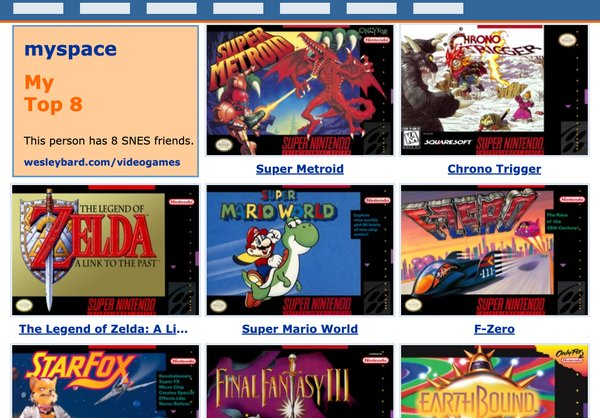
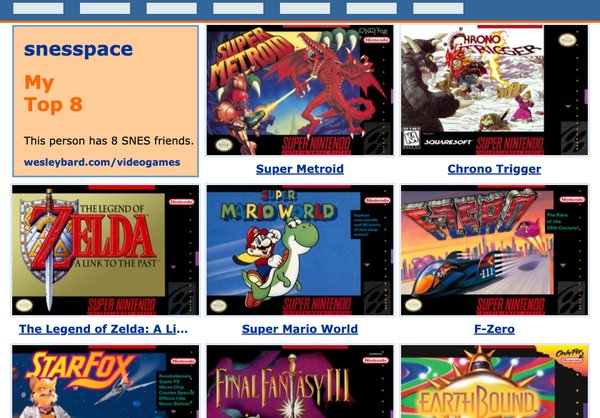
fix(snes): Top 8 final review fixes, snesspace wordmark

Changed region(s): [[0.03, 0.0933, 0.24, 0.1555]]

diff --git a/__tests__/snes-top8-page.test.tsx b/__tests__/snes-top8-page.test.tsx
@@ -63,6 +63,10 @@ const realCreate = URL.createObjectURL, realRevoke = URL.revokeObjectURL;
 const realClipboard = Object.getOwnPropertyDescriptor(navigator, 'clipboard');
 const realShare = Object.getOwnPropertyDescriptor(navigator, 'share');
 
+// jsdom never loads images; treat covers as already loaded unless a test swaps in its own Image.
+Object.defineProperty(HTMLImageElement.prototype, 'complete', { get: () => true, configurable: true });
+Object.defineProperty(HTMLImageElement.prototype, 'naturalWidth', { get: () => 300, configurable: true });
+
 beforeEach(() => {
   calls.length = 0;
   drawSpy.mockClear().mockImplementation(actualRender.drawTop8);
@@ -430,4 +434,84 @@ it('the page is noindex, titled, and renders the maker with the credit', async (
   expect(screen.getByRole('heading', { level: 1, name: 'My SNES Top 8' })).toBeInTheDocument();
   expect(screen.getByRole('link', { name: /Super Nintendo in America/ })).toHaveAttribute('href', '/videogames/snes-history');
   expect(screen.getByText(/Data: IGDB/)).toBeInTheDocument();
+});
+
+describe('final fixes', () => {
+  it('shows the deny hint only after something was denied, else a neutral message', async () => {
+    window.history.replaceState(null, '', '?g=a');
+    const { unmount } = render(<Top8 games={[g('a', 'Alpha Quest')]} />);
+    await act(async () => {});
+    expect(screen.queryByText('Deny fewer games and more will show up.')).not.toBeInTheDocument();
+    expect(screen.getByText('No more suggestions right now.')).toBeInTheDocument();
+    unmount();
+    render(<Top8 games={[g('a', 'Alpha Quest'), g('b', 'Bravo Racer', { score: 9 })]} />);
+    await act(async () => {});
+    expect(screen.queryByText('No more suggestions right now.')).not.toBeInTheDocument();
+    fireEvent.click(screen.getByRole('button', { name: 'Deny Bravo Racer' }));
+    expect(screen.getByText('Deny fewer games and more will show up.')).toBeInTheDocument();
+  });
+
+  it('an in-flight encode that resolves after an edit does not repopulate the share cache', async () => {
+    const share = jest.fn(() => Promise.resolve());
+    Object.defineProperty(navigator, 'canShare', { value: () => true, configurable: true });
+    Object.defineProperty(navigator, 'share', { value: share, configurable: true });
+    const pending: BlobCallback[] = [];
+    HTMLCanvasElement.prototype.toBlob = jest.fn(function (cb: BlobCallback) { pending.push(cb); });
+    window.history.replaceState(null, '', '?g=a,b');
+    await mount();
+    await frames();
+    await act(async () => { await new Promise((r) => setTimeout(r, 350)); });
+    expect(pending.length).toBeGreaterThan(0); // an encode is in flight
+    fireEvent.click(screen.getAllByRole('button', { name: /^Remove / })[0]); // edit: cache cleared
+    await act(async () => { pending.forEach((cb) => cb(new Blob(['old'], { type: 'image/png' }))); });
+    fireEvent.click(screen.getByRole('button', { name: 'Share' }));
+    expect(share).not.toHaveBeenCalled(); // the stale file was not written back
+  });
+
+  it('Save waits (up to a cap) for slot covers that load late', async () => {
+    const realImage = window.Image;
+    const made: (EventTarget & { complete: boolean; naturalWidth: number; onload: (() => void) | null; onerror: (() => void) | null })[] = [];
+    class LateImage extends EventTarget {
+      complete = false; naturalWidth = 0; onload: (() => void) | null = null; onerror: (() => void) | null = null; src = '';
+      constructor() { super(); made.push(this); }
+    }
+    (window as unknown as { Image: unknown }).Image = LateImage;
+    try {
+      Object.assign(URL, { createObjectURL: jest.fn(() => 'blob:x'), revokeObjectURL: jest.fn() });
+      jest.spyOn(HTMLAnchorElement.prototype, 'click').mockImplementation(() => {});
+      window.history.replaceState(null, '', '?g=a');
+      await mount();
+      await frames();
+      const toBlob = HTMLCanvasElement.prototype.toBlob as jest.Mock;
+      await act(async () => { fireEvent.click(screen.getByRole('button', { name: 'Save picture' })); });
+      expect(toBlob).not.toHaveBeenCalled(); // still waiting on the cover
+      await act(async () => {
+        made.forEach((i) => { i.complete = true; i.naturalWidth = 300; i.dispatchEvent(new Event('load')); });
+      });
+      expect(toBlob).toHaveBeenCalled();
+    } finally {
+      (window as unknown as { Image: unknown }).Image = realImage;
+    }
+  });
+
+  it('Save gives up waiting on covers after about 3 seconds', async () => {
+    const realImage = window.Image;
+    class NeverImage extends EventTarget { complete = false; naturalWidth = 0; onload = null; onerror = null; src = ''; }
+    (window as unknown as { Image: unknown }).Image = NeverImage;
+    try {
+      Object.assign(URL, { createObjectURL: jest.fn(() => 'blob:x'), revokeObjectURL: jest.fn() });
+      jest.spyOn(HTMLAnchorElement.prototype, 'click').mockImplementation(() => {});
+      window.history.replaceState(null, '', '?g=a');
+      await mount();
+      await frames();
+      jest.useFakeTimers();
+      const toBlob = HTMLCanvasElement.prototype.toBlob as jest.Mock;
+      await act(async () => { fireEvent.click(screen.getByRole('button', { name: 'Save picture' })); });
+      expect(toBlob).not.toHaveBeenCalled();
+      await act(async () => { jest.advanceTimersByTime(3100); });
+      expect(toBlob).toHaveBeenCalled();
+    } finally {
+      (window as unknown as { Image: unknown }).Image = realImage;
+    }
+  });
 });

diff --git a/app/snes/components/Top8.tsx b/app/snes/components/Top8.tsx
@@ -25,6 +25,7 @@ const MAX_RESULTS = 12;
 const LINK_KEYS = ['g', 'skin', 'n'];
 const SHARE_DEBOUNCE = 300;
 const REVOKE_AFTER = 4000;
+const IMAGE_WAIT = 3000;
 const PICTURE_FAILED = 'Couldn’t make the picture — try Save again';
 const SHARE_FAILED = 'Couldn’t open the share sheet — try Save instead';
 const box = (slug: string) => `/snes/box/${slug}.jpg`;
@@ -301,6 +302,7 @@ export default function Top8({ games }: { games: Top8Game[] }) {
   const frame = useRef(0);
   const latest = useRef(state);
   const shareFile = useRef<File | null>(null);
+  const shareGen = useRef(0);
   const shareTimer = useRef<ReturnType<typeof setTimeout> | undefined>(undefined);
 
   const ensureFonts = useCallback((theme: ThemeId) => {
@@ -316,11 +318,13 @@ export default function Top8({ games }: { games: Top8Game[] }) {
   // Keeps a ready-made PNG for Share, so navigator.share runs straight from the click (browsers want a user gesture).
   const prepareShare = useCallback(() => {
     shareFile.current = null;
+    const gen = ++shareGen.current;
     clearTimeout(shareTimer.current);
     if (!canShareRef.current) return;
     shareTimer.current = setTimeout(async () => {
       const cv = canvasRef.current;
       const blob = cv ? await toBlobAsync(cv) : null;
+      if (gen !== shareGen.current) return; // an edit or newer draw happened while this encoded
       shareFile.current = blob ? new File([blob], FILE, { type: 'image/png' }) : null;
     }, SHARE_DEBOUNCE);
   }, []);
@@ -328,8 +332,20 @@ export default function Top8({ games }: { games: Top8Game[] }) {
   // Any edit makes the cached picture stale; it is re-prepared after the next completed draw.
   useEffect(() => {
     shareFile.current = null;
+    shareGen.current++;
     clearTimeout(shareTimer.current);
   }, [state]);
+
+  const imageFor = useCallback((slug: string): HTMLImageElement => {
+    let img = images.current.get(slug);
+    if (!img) {
+      img = new Image();
+      img.onload = img.onerror = () => scheduleRef.current();
+      img.src = box(slug);
+      images.current.set(slug, img);
+    }
+    return img;
+  }, []);
 
   /** Draws the latest state; skipped (returns false) while that theme's fonts are still loading. */
   const draw = useCallback((): boolean => {
@@ -338,21 +354,11 @@ export default function Top8({ games }: { games: Top8Game[] }) {
     const ctx = canvasRef.current?.getContext('2d');
     if (!ctx) return false;
     const imgs: Record<string, HTMLImageElement> = {};
-    for (const slug of s.slots) {
-      if (!slug) continue;
-      let img = images.current.get(slug);
-      if (!img) {
-        img = new Image();
-        img.onload = img.onerror = () => scheduleRef.current();
-        img.src = box(slug);
-        images.current.set(slug, img);
-      }
-      imgs[slug] = img;
-    }
+    for (const slug of s.slots) if (slug) imgs[slug] = imageFor(slug);
     drawTop8({ ctx, slots: s.slots, titles, name: s.name, images: imgs, fonts: fonts.current }, THEMES[s.theme]);
     prepareShare();
     return true;
-  }, [titles, prepareShare]);
+  }, [titles, prepareShare, imageFor]);
   const schedule = useCallback(() => {
     cancelAnimationFrame(frame.current);
     frame.current = requestAnimationFrame(() => { draw(); });
@@ -376,11 +382,30 @@ export default function Top8({ games }: { games: Top8Game[] }) {
     return () => cancelAnimationFrame(frame.current);
   }, [state, fontsFor, schedule]);
 
+  /** Waits (at most IMAGE_WAIT ms in all) for the covers in these slots to load, so a quick Save doesn't print placeholders. */
+  const coversReady = async (slots: (string | null)[]): Promise<void> => {
+    const waits: Promise<void>[] = [];
+    for (const slug of new Set(slots)) {
+      if (!slug) continue;
+      const img = imageFor(slug);
+      if (img.complete && img.naturalWidth > 0) continue;
+      waits.push(new Promise<void>((resolve) => {
+        img.addEventListener('load', () => resolve(), { once: true });
+        img.addEventListener('error', () => resolve(), { once: true });
+      }));
+    }
+    if (!waits.length) return;
+    let timer: ReturnType<typeof setTimeout> | undefined;
+    await Promise.race([Promise.all(waits), new Promise<void>((r) => { timer = setTimeout(r, IMAGE_WAIT); })]);
+    clearTimeout(timer);
+  };
+
   /** The current picture as a PNG: waits for the theme's fonts, draws, then encodes. */
   const picture = async (): Promise<Blob | null> => {
     const cv = canvasRef.current;
     if (!cv) return null;
     await ensureFonts(latest.current.theme);
+    await coversReady(latest.current.slots);
     if (!draw()) return null;
     return toBlobAsync(cv);
   };
@@ -533,7 +558,7 @@ export default function Top8({ games }: { games: Top8Game[] }) {
                   );
                 })}
               </ul>
-            ) : <p className="s-t8-note">Deny fewer games and more will show up.</p>}
+            ) : <p className="s-t8-note">{state.denied.length > 0 ? 'Deny fewer games and more will show up.' : 'No more suggestions right now.'}</p>}
           </div>
         </section>
       </div>

diff --git a/__tests__/snes-top8-lib.test.ts b/__tests__/snes-top8-lib.test.ts
@@ -8,11 +8,22 @@ const games = [
   G('megaman7', { genres: ['Platform'], series: 'Mega Man', score: 7.4 }),
   G('golf', { genres: ['Sport'], score: 9.0 }),
   G('puzzle', { genres: ['Puzzle'], score: 8.9 }),
-  ...['super-mario-world', 'the-legend-of-zelda-a-link-to-the-past', 'super-metroid', 'chrono-trigger', 'donkey-kong-country', 'super-mario-kart'].map((s) => G(s)),
+  ...['super-mario-world', 'the-legend-of-zelda-a-link-to-the-past', 'super-metroid', 'chrono-trigger', 'donkey-kong-country', 'super-mario-kart', 'final-fantasy-iii', 'street-fighter-ii-the-world-warrior'].map((s) => G(s)),
 ];
 const st = (slots: (string | null)[], extra: Partial<Top8State> = {}): Top8State => ({ ...EMPTY_STATE, slots: [...slots, ...Array(8 - slots.length).fill(null)], ...extra });
 
 describe('recommend', () => {
+  it('starts with the spec\'s eight slugs in order and shows five rows', () => {
+    expect(STARTERS).toEqual(['super-mario-world', 'the-legend-of-zelda-a-link-to-the-past', 'super-metroid', 'chrono-trigger', 'donkey-kong-country', 'super-mario-kart', 'final-fantasy-iii', 'street-fighter-ii-the-world-warrior']);
+    const r = recommend(st([]), games);
+    expect(r).toHaveLength(5);
+    expect(r[0].slug).toBe('super-mario-world');
+  });
+  it('adds +1 per shared genre', () => {
+    const gs = [G('p', { genres: ['A', 'B'], similar: ['x', 'y'] }), G('x', { genres: ['A', 'B'], score: 7 }), G('y', { genres: ['A'], score: 7 })];
+    const r = recommend(st(['p']), gs);
+    expect(r.map((e) => e.slug)).toEqual(['x', 'y']); // same score and similar weight; x shares two genres
+  });
   it('suggests the starters when nothing is picked, skipping denied ones', () => {
     const r = recommend(st([], { denied: ['super-mario-world'] }), games);
     expect(r[0]).toEqual({ slug: 'the-legend-of-zelda-a-link-to-the-past', reason: 'a classic to start with' });

diff --git a/__tests__/snes-top8-render.test.ts b/__tests__/snes-top8-render.test.ts
@@ -64,6 +64,13 @@ describe('text helpers', () => {
     expect(t.endsWith('…')).toBe(true);
     expect(t.length * 10).toBeLessThanOrEqual(100);
   });
+  it('fitText never ends on a lone surrogate', () => {
+    const { ctx } = mockCtx();
+    for (let w = 20; w < 200; w += 7) {
+      const t = fitText(ctx, '\u{1D4D0}'.repeat(30), w);
+      expect(t).toMatch(/^(?:\u{1D4D0})*…$/u);
+    }
+  });
 });
 
 describe('fitFont', () => {
@@ -184,12 +191,25 @@ describe('themes', () => {
 
   it('draws no trademarked game names to the canvas', () => {
     const dir = path.join(process.cwd(), 'app/snes/top8/themes');
-    const banned = /F-Zero|Final Fantasy|Star Fox|Nintendo/i;
+    const banned = /F-Zero|Final Fantasy|Star Fox|Nintendo|MySpace/i;
     for (const f of fs.readdirSync(dir)) {
       const src = fs.readFileSync(path.join(dir, f), 'utf8');
       for (const m of src.matchAll(/fillText\(([^;]*)\)/g)) {
         expect(m[1]).not.toMatch(banned);
       }
     }
+  });
+});
+
+describe('myspace friend count', () => {
+  const friendsLine = (slots: (string | null)[]) => {
+    const { d, calls } = make(slots, 'Wes');
+    drawTop8(d, THEMES.myspace);
+    return calls.filter((c) => c.name === 'fillText').map((c) => String(c.args[0])).find((t) => /SNES friend/.test(t));
+  };
+  it('says "friend" for one and "friends" otherwise', () => {
+    expect(friendsLine(['a', ...Array(7).fill(null)])).toContain('has 1 SNES friend.');
+    expect(friendsLine(['a', 'b', ...Array(6).fill(null)])).toContain('has 2 SNES friends.');
+    expect(friendsLine(Array(8).fill(null))).toContain('has 0 SNES friends.');
   });
 });

diff --git a/lib/snes/top8.ts b/lib/snes/top8.ts
@@ -19,12 +19,14 @@ export type Top8State = { slots: (string | null)[]; theme: ThemeId; name: string
 export const EMPTY_STATE: Top8State = { slots: Array(8).fill(null), theme: 'myspace', name: '', denied: [] };
 
 export const STARTERS: string[] = [
-  'the-legend-of-zelda-a-link-to-the-past',
   'super-mario-world',
+  'the-legend-of-zelda-a-link-to-the-past',
   'super-metroid',
   'chrono-trigger',
   'donkey-kong-country',
   'super-mario-kart',
+  'final-fantasy-iii',
+  'street-fighter-ii-the-world-warrior',
 ];
 
 /** EGM average to 1 decimal, else aggregate/10, else users/10, else null. */
@@ -131,7 +133,7 @@ export function recommend(state: Top8State, games: Top8Game[], n = 5): { slug: s
     const hits = genreHit(g);
     if (!hits.length) continue;
     if (!cand.has(g.slug) && !(underfilled && (g.score ?? 0) >= 8)) continue;
-    add(g.slug, 1, 1, `you like ${hits[0].toLowerCase()} games`);
+    add(g.slug, hits.length, 1, `you like ${hits[0].toLowerCase()} games`);
   }
 
   return [...cand.entries()]

diff --git a/app/snes/top8/themes/myspace.ts b/app/snes/top8/themes/myspace.ts
@@ -40,7 +40,7 @@ export const myspace: Theme = {
     const verd = 'Verdana, Arial, sans-serif';
     ctx.fillStyle = '#003399';
     ctx.font = `bold 34px ${verd}`;
-    ctx.fillText('myspace', x + 18, y + 50);
+    ctx.fillText('snesspace', x + 18, y + 50);
     ctx.fillStyle = '#ff6600';
     const [a, b] = titleLines(name);
     ctx.fillText(fitFont(ctx, a, w - 36, (px) => `bold ${px}px ${verd}`, 34, 16), x + 18, y + 120);
@@ -48,7 +48,7 @@ export const myspace: Theme = {
     ctx.fillText(b, x + 18, y + 160);
     ctx.fillStyle = '#000';
     ctx.font = `19px ${verd}`;
-    const friends = wrapLines(ctx, `${name || 'This person'} has ${count(d)} SNES friends.`, w - 36, 2);
+    const friends = wrapLines(ctx, `${name || 'This person'} has ${count(d)} SNES ${count(d) === 1 ? 'friend' : 'friends'}.`, w - 36, 2);
     friends.forEach((l, i) => ctx.fillText(l, x + 18, y + h - 78 + (2 - friends.length) * 24 + i * 24));
     ctx.fillStyle = '#003399';
     ctx.font = `bold 17px ${verd}`;

diff --git a/app/snes/top8/render.ts b/app/snes/top8/render.ts
@@ -36,9 +36,9 @@ export type Theme = {
 
 export function fitText(ctx: CanvasRenderingContext2D, text: string, maxW: number): string {
   if (ctx.measureText(text).width <= maxW) return text;
-  let t = text;
-  while (t.length > 1 && ctx.measureText(t + '…').width > maxW) t = t.slice(0, -1);
-  return t + '…';
+  const chars = Array.from(text);
+  while (chars.length > 1 && ctx.measureText(chars.join('') + '…').width > maxW) chars.pop();
+  return chars.join('') + '…';
 }
 
 /** Sets ctx.font to the largest size in [minPx, maxPx] at which the text fits maxW and returns it; only below minPx does it fall back to an ellipsis. */

diff --git a/scripts/og/build-og.py b/scripts/og/build-og.py
@@ -518,7 +518,7 @@ def top8_picture():
     x, y = pos(0)
     out = chrome + (
         f'<div class="t8title" style="left:{x}px;top:{y}px;width:{cw}px;height:{cell}px">'
-        f'<b class="mys">myspace</b><b class="ttl" style="top:78px">My</b><b class="ttl" style="top:118px">Top 8</b>'
+        f'<b class="mys">snesspace</b><b class="ttl" style="top:78px">My</b><b class="ttl" style="top:118px">Top 8</b>'
         f'<span class="fr">{TOP8_FRIENDS}</span><b class="url">wesleybard.com/videogames</b></div>'
     )
     for i, slug in enumerate(TOP8_EXAMPLE, start=1):
